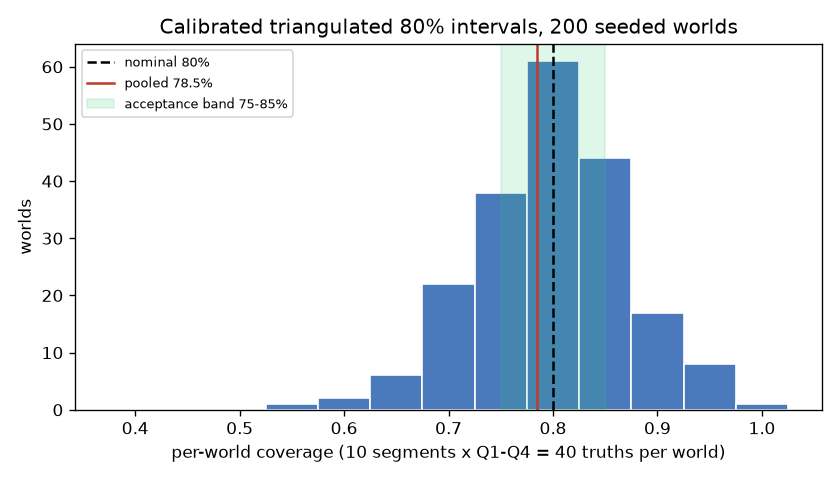
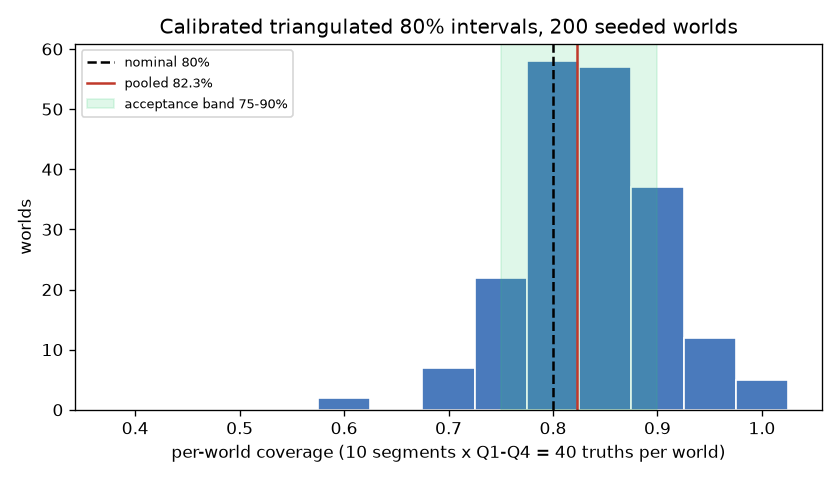
synth: misspecification coverage matrix script and docs

diff --git a/scripts/coverage_matrix.py b/scripts/coverage_matrix.py
@@ -1,0 +1,20 @@
+"""Print the misspecification coverage matrix (markdown) over seeded known-truth worlds."""
+
+import sys
+
+from nmt_engine.synth.world import FALLBACK_CELLS, MATRIX_CELLS, mean_coverage
+
+
+def main(n_worlds: int = 200) -> None:
+    print("| true ρ | stated/true σ | errors | coverage |")
+    print("|---|---|---|---|")
+    for c in MATRIX_CELLS:
+        tails = f"Student-t df={c['t_df']:g}" if "t_df" in c else "normal"
+        cov = mean_coverage(c, n_worlds)
+        print(f"| {c['rho']:g} | {c['stated_sigma_ratio']:g} | {tails} | {cov:.1%} |", flush=True)
+    for c in FALLBACK_CELLS:
+        print(f"| fallback {c} | | | {mean_coverage(c, n_worlds):.1%} |", flush=True)
+
+
+if __name__ == "__main__":
+    main(int(sys.argv[1]) if len(sys.argv) > 1 else 200)

diff --git a/scripts/coverage_histogram.py b/scripts/coverage_histogram.py
@@ -18,7 +18,7 @@ def main(out: Path, n_worlds: int = 200) -> float:
     ax.hist(cov, bins=np.arange(0.375, 1.0626, 0.05), color="#4a7abc", edgecolor="white")
     ax.axvline(0.8, color="black", ls="--", label="nominal 80%")
     ax.axvline(cov.mean(), color="#c0392b", label=f"pooled {cov.mean():.1%}")
-    ax.axvspan(0.75, 0.85, color="#2ecc71", alpha=0.15, label="acceptance band 75-85%")
+    ax.axvspan(0.75, 0.90, color="#2ecc71", alpha=0.15, label="acceptance band 75-90%")
     ax.set_xlabel("per-world coverage (10 segments x Q1-Q4 = 40 truths per world)")
     ax.set_ylabel("worlds")
     ax.set_title(f"Calibrated triangulated 80% intervals, {n_worlds} seeded worlds")

diff --git a/docs/IMPLEMENTATION.md b/docs/IMPLEMENTATION.md
@@ -61,16 +61,27 @@ Demotion never edits a line: it appends a new revision (`rev + 1`) with a `flags
   runs as a test against `forbidden_corpus/` (git-ignored; set `NMT_FORBIDDEN_CORPUS` to move it).
 - **Gate 13 persona-panel monotonicity** is not checked yet: persona panels arrive in PR 9 (calibrated
   synthetic panel), which adds that test.
-- **Calibration is applied even if it did not pass.** `estimate` always uses a family's fitted bias and
-  conformal q80 when one exists; `passed` (n ≥ 20, LOO coverage 0.75–0.90) only decides whether the
-  family counts towards S3. Falling back to the stated interval would reuse a known-overconfident
-  interval.
+- **Joint reference classes.** Each calibration case is estimated by every family (`JointCase`), so
+  `joint_calibration` fits every family on the same truths and records a `JointCalibration`. From it:
+  ρ = max(`DEFAULT_RHO`, clip(mean pairwise correlation of calibrated log errors, 0, 0.95)), and the
+  combined half-width is max(analytic, LOO conformal q80 of the combined estimate), where the LOO
+  re-fits each family's bias/q80 and ρ without the held-out case. The rank is the standard split-conformal
+  ⌈(n+1)·0.8⌉-th *smallest* |log error|. `Synthetic` records `rho`, `combined_conformal_q80` and
+  `joint_calibration_id`.
+- **Failed calibrations never narrow the combined interval.** A family whose calibration did not pass
+  (n < 20 or LOO coverage outside 0.75–0.90) is listed in `Synthetic.methods` with `in_combined=False`
+  but left out of triangulation, ρ and the combined conformal width. If no family passed, all are pooled
+  with ρ = 1 (combining earns no narrowing). Pooled families still get their fitted bias and q80.
 - **S2 needs agreement two ways.** Pairwise z ≤ 1.645 (master prompt) *and* overlapping 80% intervals
   (PROTOCOL §2). Either failing sets `methods_disagree` and caps the grade at S1.
 - **Same-family merge** takes the mean μ′ and mean σ′ of that family's calcs, so padding a family never
   narrows the interval beyond its single tightest calc.
 - **Brier score.** For a binary forecast, (p − y)² with the given p. For an interval forecast,
   (0.8 − hit)², i.e. the nominal 80% coverage claim scored as a probability.
-- **World error model.** Family errors share a common market shock with correlation ρ = 0.3 (the same
-  ρ the triangulation assumes), and stated method intervals are 0.6× the true noise (overconfident),
-  so the coverage test exercises the conformal correction rather than the stated widths.
+- **World error model and coverage test.** Family errors share a common market shock with correlation ρ
+  (optionally multivariate Student-t), and stated intervals are `stated_sigma_ratio` × the true noise.
+  The estimator never receives ρ. Test (a) is a misspecification matrix (`world.MATRIX_CELLS`: true
+  ρ ∈ {0, 0.3, 0.6, 0.8} × stated ratio ∈ {0.4, 0.6, 1.0}, plus Student-t df = 3) and the fallback
+  cells (`world.FALLBACK_CELLS`); each must reach 75–90% coverage over 200 worlds
+  (`scripts/coverage_matrix.py` prints the table). The ρ floor makes the true-ρ = 0 cells
+  conservative: with honest stated intervals that cell sits near the 90% ceiling.
